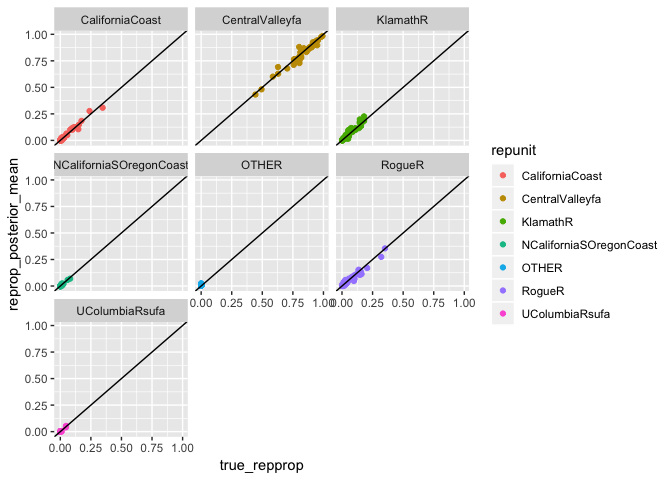
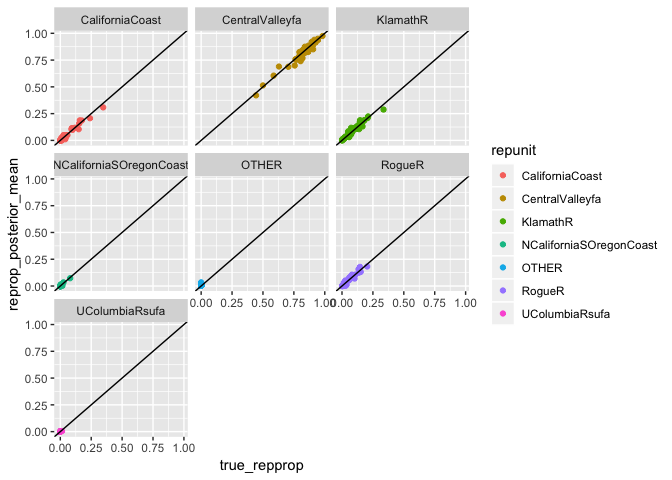
Committing a few minor README things

diff --git a/README.md b/README.md
@@ -1,6 +1,6 @@
-\# rubias — genetic stock identification (GSI) in the tidyverse
+rubias — genetic stock identification (GSI) in the tidyverse
 ================
-28 January, 2019
+04 February, 2019
 
 <!-- README.md is generated from README.Rmd. Please edit that file -->
 
@@ -128,13 +128,13 @@ package:
 
 ``` r
 library(tidyverse)  # load up the tidyverse library, we will use it later...
-#> ── Attaching packages ───────────────────────────────────────────────────────────────────────── tidyverse 1.2.1 ──
+#> ── Attaching packages ───────────────────────────────────────────────── tidyverse 1.2.1 ──
 #> ✔ ggplot2 3.1.0     ✔ purrr   0.2.5
 #> ✔ tibble  2.0.1     ✔ dplyr   0.8.0
 #> ✔ tidyr   0.8.2     ✔ stringr 1.3.1
 #> ✔ readr   1.2.1     ✔ forcats 0.3.0
 #> Warning: package 'tibble' was built under R version 3.5.2
-#> ── Conflicts ──────────────────────────────────────────────────────────────────────────── tidyverse_conflicts() ──
+#> ── Conflicts ──────────────────────────────────────────────────── tidyverse_conflicts() ──
 #> ✖ dplyr::filter() masks stats::filter()
 #> ✖ dplyr::lag()    masks stats::lag()
 library(rubias)
@@ -329,19 +329,19 @@ the default options:
 mix_est <- infer_mixture(reference = chinook, 
                          mixture = chinook_mix, 
                          gen_start_col = 5)
-#> Collating data; compiling reference allele frequencies, etc.   time: 1.44 seconds
-#> Computing reference locus specific means and variances for computing mixture z-scores   time: 0.42 seconds
+#> Collating data; compiling reference allele frequencies, etc.   time: 1.46 seconds
+#> Computing reference locus specific means and variances for computing mixture z-scores   time: 0.44 seconds
 #> Working on mixture collection: rec2 with 772 individuals
 #>   calculating log-likelihoods of the mixture individuals.   time: 0.12 seconds
 #>   performing 100 burn-in and 2000 more sweeps of method "MCMC"   time: 0.65 seconds
-#>   tidying output into a tibble.   time: 0.11 seconds
+#>   tidying output into a tibble.   time: 0.10 seconds
 #> Working on mixture collection: rec1 with 743 individuals
 #>   calculating log-likelihoods of the mixture individuals.   time: 0.11 seconds
-#>   performing 100 burn-in and 2000 more sweeps of method "MCMC"   time: 0.64 seconds
+#>   performing 100 burn-in and 2000 more sweeps of method "MCMC"   time: 0.62 seconds
 #>   tidying output into a tibble.   time: 0.10 seconds
 #> Working on mixture collection: rec3 with 741 individuals
-#>   calculating log-likelihoods of the mixture individuals.   time: 0.11 seconds
-#>   performing 100 burn-in and 2000 more sweeps of method "MCMC"   time: 0.61 seconds
+#>   calculating log-likelihoods of the mixture individuals.   time: 0.12 seconds
+#>   performing 100 burn-in and 2000 more sweeps of method "MCMC"   time: 0.62 seconds
 #>   tidying output into a tibble.   time: 0.10 seconds
 ```
 
@@ -376,23 +376,23 @@ lapply(mix_est, head)
 #> # A tibble: 6 x 4
 #>   mixture_collection repunit         collection                  pi
 #>   <chr>              <chr>           <chr>                    <dbl>
-#> 1 rec2               CentralValleyfa Feather_H_sp         0.0775   
-#> 2 rec2               CentralValleysp Butte_Cr_Sp          0.0000609
-#> 3 rec2               CentralValleysp Mill_Cr_sp           0.0000360
-#> 4 rec2               CentralValleysp Deer_Cr_sp           0.0000603
-#> 5 rec2               CentralValleysp UpperSacramento_R_sp 0.000413 
-#> 6 rec2               CentralValleyfa Feather_H_fa         0.160    
+#> 1 rec2               CentralValleyfa Feather_H_sp         0.0751   
+#> 2 rec2               CentralValleysp Butte_Cr_Sp          0.0000370
+#> 3 rec2               CentralValleysp Mill_Cr_sp           0.0000412
+#> 4 rec2               CentralValleysp Deer_Cr_sp           0.0000570
+#> 5 rec2               CentralValleysp UpperSacramento_R_sp 0.000132 
+#> 6 rec2               CentralValleyfa Feather_H_fa         0.156    
 #> 
 #> $indiv_posteriors
 #> # A tibble: 6 x 10
 #>   mixture_collect… indiv repunit collection     PofZ log_likelihood z_score
 #>   <chr>            <chr> <chr>   <chr>         <dbl>          <dbl>   <dbl>
-#> 1 rec2             T124… Centra… Feather_H… 1.77e-28          -137.   -13.1
-#> 2 rec2             T124… Centra… Feather_H… 1.05e-27          -136.   -12.6
+#> 1 rec2             T124… Centra… Feather_H… 1.70e-28          -137.   -13.1
+#> 2 rec2             T124… Centra… Feather_H… 1.01e-27          -136.   -12.6
 #> 3 rec2             T124… Centra… Butte_Cr_… 1.53e-24          -130.   -10.5
-#> 4 rec2             T124… Centra… Mill_Cr_fa 1.22e-29          -135.   -11.8
-#> 5 rec2             T124… Centra… Deer_Cr_fa 2.36e-28          -134.   -11.6
-#> 6 rec2             T124… Centra… Mokelumne… 1.76e-27          -134.   -12.3
+#> 4 rec2             T124… Centra… Mill_Cr_fa 3.29e-29          -135.   -11.8
+#> 5 rec2             T124… Centra… Deer_Cr_fa 1.74e-28          -134.   -11.6
+#> 6 rec2             T124… Centra… Mokelumne… 1.90e-27          -134.   -12.3
 #> # … with 3 more variables: n_non_miss_loci <int>, n_miss_loci <int>,
 #> #   missing_loci <list>
 #> 
@@ -457,34 +457,28 @@ mix_est_with_prior <- infer_mixture(reference = chinook,
                          mixture = chinook_mix, 
                          gen_start_col = 5,
                          pi_prior = prior_tibble)
-#> Collating data; compiling reference allele frequencies, etc.   time: 1.54 seconds
-#> Computing reference locus specific means and variances for computing mixture z-scores   time: 0.45 seconds
+#> Collating data; compiling reference allele frequencies, etc.   time: 1.47 seconds
+#> Computing reference locus specific means and variances for computing mixture z-scores   time: 0.47 seconds
 #> Working on mixture collection: rec2 with 772 individuals
-#> Warning in if (is.na(pi_prior)) {: the condition has length > 1 and only
-#> the first element will be used
 #> Joining, by = "collection"
 #> Warning: Column `collection` joining factor and character vector, coercing
 #> into character vector
 #>   calculating log-likelihoods of the mixture individuals.   time: 0.12 seconds
-#>   performing 100 burn-in and 2000 more sweeps of method "MCMC"   time: 0.63 seconds
+#>   performing 100 burn-in and 2000 more sweeps of method "MCMC"   time: 0.66 seconds
 #>   tidying output into a tibble.   time: 0.10 seconds
 #> Working on mixture collection: rec1 with 743 individuals
-#> Warning in if (is.na(pi_prior)) {: the condition has length > 1 and only
-#> the first element will be used
 #> Joining, by = "collection"
 #> Warning: Column `collection` joining factor and character vector, coercing
 #> into character vector
-#>   calculating log-likelihoods of the mixture individuals.   time: 0.12 seconds
-#>   performing 100 burn-in and 2000 more sweeps of method "MCMC"   time: 0.65 seconds
+#>   calculating log-likelihoods of the mixture individuals.   time: 0.11 seconds
+#>   performing 100 burn-in and 2000 more sweeps of method "MCMC"   time: 0.62 seconds
 #>   tidying output into a tibble.   time: 0.10 seconds
 #> Working on mixture collection: rec3 with 741 individuals
-#> Warning in if (is.na(pi_prior)) {: the condition has length > 1 and only
-#> the first element will be used
 #> Joining, by = "collection"
 #> Warning: Column `collection` joining factor and character vector, coercing
 #> into character vector
 #>   calculating log-likelihoods of the mixture individuals.   time: 0.12 seconds
-#>   performing 100 burn-in and 2000 more sweeps of method "MCMC"   time: 0.61 seconds
+#>   performing 100 burn-in and 2000 more sweeps of method "MCMC"   time: 0.62 seconds
 #>   tidying output into a tibble.   time: 0.10 seconds
 ```
 
@@ -606,12 +600,12 @@ top6_cis
 #> # A tibble: 6 x 3
 #>   repunit                     loCI   hiCI
 #>   <chr>                      <dbl>  <dbl>
-#> 1 CaliforniaCoast         1.88e- 2 0.0432
-#> 2 CentralValleyfa         7.91e- 1 0.847 
-#> 3 KlamathR                4.91e- 2 0.0877
-#> 4 NCaliforniaSOregonCoast 3.00e- 3 0.0181
-#> 5 RogueR                  4.48e- 2 0.0803
-#> 6 UColumbiaRsufa          5.14e-18 0.0119
+#> 1 CaliforniaCoast         1.91e- 2 0.0437
+#> 2 CentralValleyfa         7.91e- 1 0.846 
+#> 3 KlamathR                5.04e- 2 0.0861
+#> 4 NCaliforniaSOregonCoast 3.04e- 3 0.0181
+#> 5 RogueR                  4.35e- 2 0.0799
+#> 6 UColumbiaRsufa          1.08e-22 0.0114
 ```
 
 ## Assessing whether individuals are not from any of the reference populations
@@ -689,7 +683,7 @@ no_kc <- infer_mixture(small_chinook_ref, small_chinook_mix, gen_start_col = 5)
 #> Computing reference locus specific means and variances for computing mixture z-scores   time: 0.03 seconds
 #> Working on mixture collection: rec3 with 29 individuals
 #>   calculating log-likelihoods of the mixture individuals.   time: 0.00 seconds
-#>   performing 100 burn-in and 2000 more sweeps of method "MCMC"   time: 0.03 seconds
+#>   performing 100 burn-in and 2000 more sweeps of method "MCMC"   time: 0.02 seconds
 #>   tidying output into a tibble.   time: 0.01 seconds
 #> Working on mixture collection: rec1 with 36 individuals
 #>   calculating log-likelihoods of the mixture individuals.   time: 0.00 seconds
@@ -803,10 +797,10 @@ And now we can do the mixture analysis:
 ``` r
 # note that the genetic data start in column 6 now
 with_kc <- infer_mixture(kc_ref, kc_mix, 6)
-#> Collating data; compiling reference allele frequencies, etc.   time: 0.16 seconds
+#> Collating data; compiling reference allele frequencies, etc.   time: 0.17 seconds
 #> Computing reference locus specific means and variances for computing mixture z-scores   time: 0.03 seconds
 #> Working on mixture collection: rec3 with 29 individuals
-#>   calculating log-likelihoods of the mixture individuals.   time: 0.00 seconds
+#>   calculating log-likelihoods of the mixture individuals.   time: 0.01 seconds
 #>   performing 100 burn-in and 2000 more sweeps of method "MCMC"   time: 0.02 seconds
 #>   tidying output into a tibble.   time: 0.01 seconds
 #> Working on mixture collection: rec1 with 36 individuals
@@ -1053,10 +1047,10 @@ top6
 #>   <chr>              <chr>                     <dbl>
 #> 1 rec1               CentralValleyfa         0.820  
 #> 2 rec1               KlamathR                0.0672 
-#> 3 rec1               RogueR                  0.0622 
-#> 4 rec1               CaliforniaCoast         0.0299 
-#> 5 rec1               NCaliforniaSOregonCoast 0.00915
-#> 6 rec1               UColumbiaRsufa          0.00400
+#> 3 rec1               RogueR                  0.0606 
+#> 4 rec1               CaliforniaCoast         0.0302 
+#> 5 rec1               NCaliforniaSOregonCoast 0.00901
+#> 6 rec1               UColumbiaRsufa          0.00359
 ```
 
 We could, if we put those `repprop` values into a `ppn` column, simulate
@@ -1066,7 +1060,7 @@ like this:
 
 ``` r
 round(top6$repprop * 350)
-#> [1] 287  24  22  10   3   1
+#> [1] 287  24  21  11   3   1
 ```
 
 and then put them in a `cnts` column.
@@ -1096,10 +1090,10 @@ arep
 #>   <chr>                       <dbl>
 #> 1 CentralValleyfa            8.20  
 #> 2 KlamathR                   0.672 
-#> 3 RogueR                     0.622 
-#> 4 CaliforniaCoast            0.299 
-#> 5 NCaliforniaSOregonCoast    0.0915
-#> 6 UColumbiaRsufa             0.0400
+#> 3 RogueR                     0.606 
+#> 4 CaliforniaCoast            0.302 
+#> 5 NCaliforniaSOregonCoast    0.0901
+#> 6 UColumbiaRsufa             0.0359
 ```
 
 Let’s do some simulations with those repunit parameters. By default, if
@@ -1322,10 +1316,10 @@ arep
 #>   <chr>                       <dbl>
 #> 1 CentralValleyfa            8.20  
 #> 2 KlamathR                   0.672 
-#> 3 RogueR                     0.622 
-#> 4 CaliforniaCoast            0.299 
-#> 5 NCaliforniaSOregonCoast    0.0915
-#> 6 UColumbiaRsufa             0.0400
+#> 3 RogueR                     0.606 
+#> 4 CaliforniaCoast            0.302 
+#> 5 NCaliforniaSOregonCoast    0.0901
+#> 6 UColumbiaRsufa             0.0359
 ```
 
 But, now, let’s say that within reporting unit we want specific weights
@@ -1379,26 +1373,26 @@ chin_sims_sub_ppn %>%
 #> # Groups:   repunit [6]
 #>    repunit            collection       mean_pi repunit_mean_pi fract_within
 #>    <chr>              <chr>              <dbl>           <dbl>        <dbl>
-#>  1 CaliforniaCoast    Eel_R            3.41e-3         0.0341         0.10 
-#>  2 CaliforniaCoast    Russian_R        3.07e-2         0.0341         0.900
-#>  3 CentralValleyfa    Battle_Cr        8.25e-8         0.825          0    
-#>  4 CentralValleyfa    Butte_Cr_fa      5.77e-1         0.825          0.700
-#>  5 CentralValleyfa    Deer_Cr_fa       8.25e-8         0.825          0    
-#>  6 CentralValleyfa    Feather_H_fa     8.25e-8         0.825          0    
-#>  7 CentralValleyfa    Feather_H_sp     2.47e-1         0.825          0.300
-#>  8 CentralValleyfa    Mill_Cr_fa       8.25e-8         0.825          0    
-#>  9 CentralValleyfa    Mokelumne_R_…    8.25e-8         0.825          0    
-#> 10 CentralValleyfa    Sacramento_R…    8.25e-8         0.825          0    
-#> 11 KlamathR           Klamath_IGH_…    2.94e-2         0.0588         0.5  
-#> 12 KlamathR           Trinity_H_sp     2.94e-2         0.0588         0.5  
-#> 13 NCaliforniaSOrego… Chetco_R         5.77e-3         0.0115         0.5  
-#> 14 NCaliforniaSOrego… Smith_R          5.77e-3         0.0115         0.5  
-#> 15 RogueR             Applegate_Cr     3.04e-2         0.0607         0.5  
-#> 16 RogueR             Cole_Rivers_H    3.04e-2         0.0607         0.5  
-#> 17 UColumbiaRsufa     Hanford_Reach    2.49e-3         0.00994        0.25 
-#> 18 UColumbiaRsufa     PriestRapids…    2.49e-3         0.00994        0.25 
-#> 19 UColumbiaRsufa     Wells_H          2.49e-3         0.00994        0.25 
-#> 20 UColumbiaRsufa     Wenatchee_R      2.49e-3         0.00994        0.25
+#>  1 CaliforniaCoast    Eel_R            3.61e-3          0.0361        0.10 
+#>  2 CaliforniaCoast    Russian_R        3.25e-2          0.0361        0.9  
+#>  3 CentralValleyfa    Battle_Cr        8.27e-8          0.827         0    
+#>  4 CentralValleyfa    Butte_Cr_fa      5.79e-1          0.827         0.700
+#>  5 CentralValleyfa    Deer_Cr_fa       8.27e-8          0.827         0    
+#>  6 CentralValleyfa    Feather_H_fa     8.27e-8          0.827         0    
+#>  7 CentralValleyfa    Feather_H_sp     2.48e-1          0.827         0.300
+#>  8 CentralValleyfa    Mill_Cr_fa       8.27e-8          0.827         0    
+#>  9 CentralValleyfa    Mokelumne_R_…    8.27e-8          0.827         0    
+#> 10 CentralValleyfa    Sacramento_R…    8.27e-8          0.827         0    
+#> 11 KlamathR           Klamath_IGH_…    3.10e-2          0.0620        0.5  
+#> 12 KlamathR           Trinity_H_sp     3.10e-2          0.0620        0.5  
+#> 13 NCaliforniaSOrego… Chetco_R         5.31e-3          0.0106        0.5  
+#> 14 NCaliforniaSOrego… Smith_R          5.31e-3          0.0106        0.5  
+#> 15 RogueR             Applegate_Cr     2.68e-2          0.0537        0.5  
+#> 16 RogueR             Cole_Rivers_H    2.68e-2          0.0537        0.5  
+#> 17 UColumbiaRsufa     Hanford_Reach    2.56e-3          0.0102        0.25 
+#> 18 UColumbiaRsufa     PriestRapids…    2.56e-3          0.0102        0.25 
+#> 19 UColumbiaRsufa     Wells_H          2.56e-3          0.0102        0.25 
+#> 20 UColumbiaRsufa     Wenatchee_R      2.56e-3          0.0102        0.25
 ```
 
 ## Multiple simulation scenarios and “100% Simulations”

diff --git a/TODO.md b/TODO.md
@@ -83,7 +83,7 @@ But, we need to
 
 - [x] Figure out what happens when the simulation breaks during the Monte Carlo cross validation.  __BEN__
 - [x] We need a Monte Carlo cross-validation function.  The inputs and outputs should be like `assess_reference`, so Eric still needs to clean that up a bit.  __Ben after  eric pulls together the loo version__
-- [ ] Prune the EM-stuff out of ``assess_reference`.   __ERIC__
+- [x] Prune the EM-stuff out of ``assess_reference`.   __ERIC__
 
 ## Paper
 
